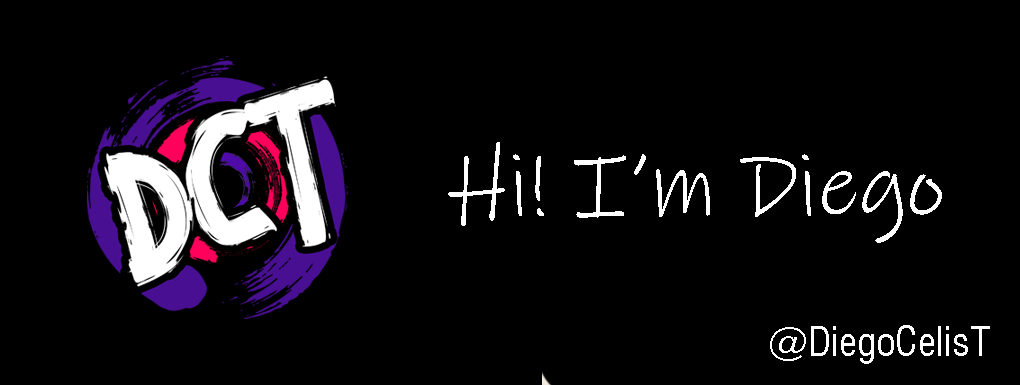
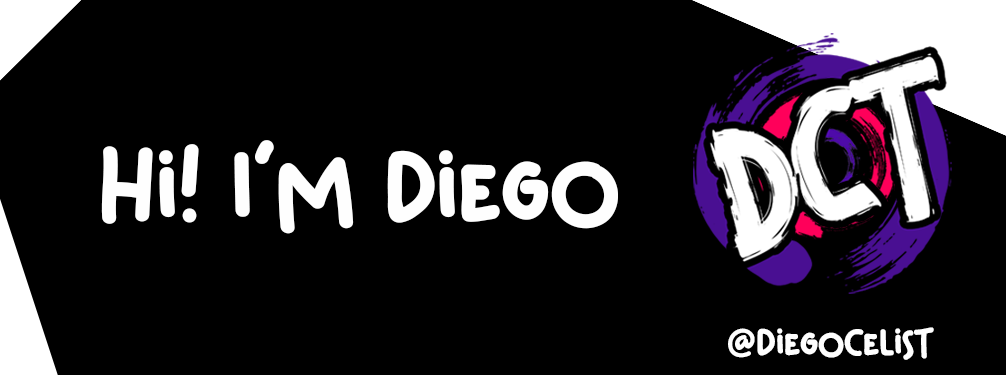
melhora do header

diff --git a/README.md b/README.md
@@ -1,19 +1,18 @@
-<img src="./assets/Banner DCT.png">
+<img align="center" src="./assets/Banner DCT2.png">
 <hr>
 <table>
     <tr>
         <td>
-            <img src="https://github-readme-stats.vercel.app/api/top-langs/?username=diegocelist&layout=compact&theme=highcontrast"/>
+            <img src="https://github-readme-stats.vercel.app/api/top-langs/?username=diegocelist&layout=compact&theme=midnight-purple"/>
         </td>
         <td>
-            <img src="https://github-readme-stats.vercel.app/api?username=diegocelist&theme=highcontrast" />
+            <img src="https://github-readme-stats.vercel.app/api?username=diegocelist&show_icons=true&theme=midnight-purple" />
         </td>
     </tr>   
 </table>
 <hr>
-<div align="center"><img src="https://miro.medium.com/max/1800/1*jB76MLZjiNhGSQQvxm7LSQ.gif" width="40px"></div>
+    <h1>Hello World! 👋😄</h1>
 <hr>
-
 <!--
 **DiegoCelisT/DiegoCelisT** is a ✨ _special_ ✨ repository because its `README.md` (this file) appears on your GitHub profile.
 
